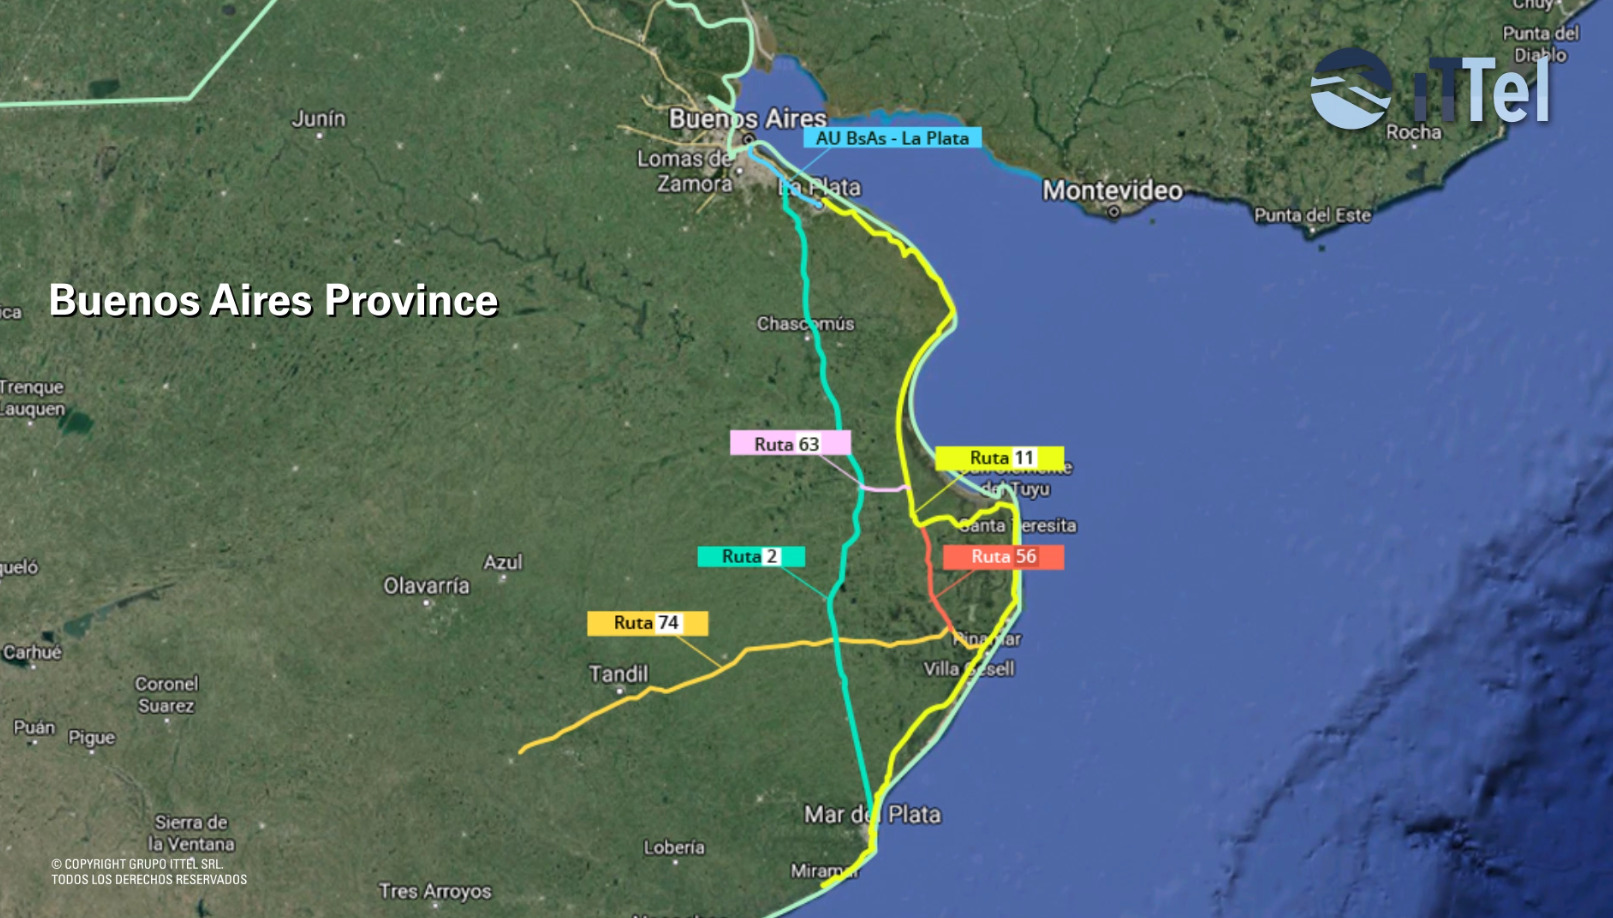
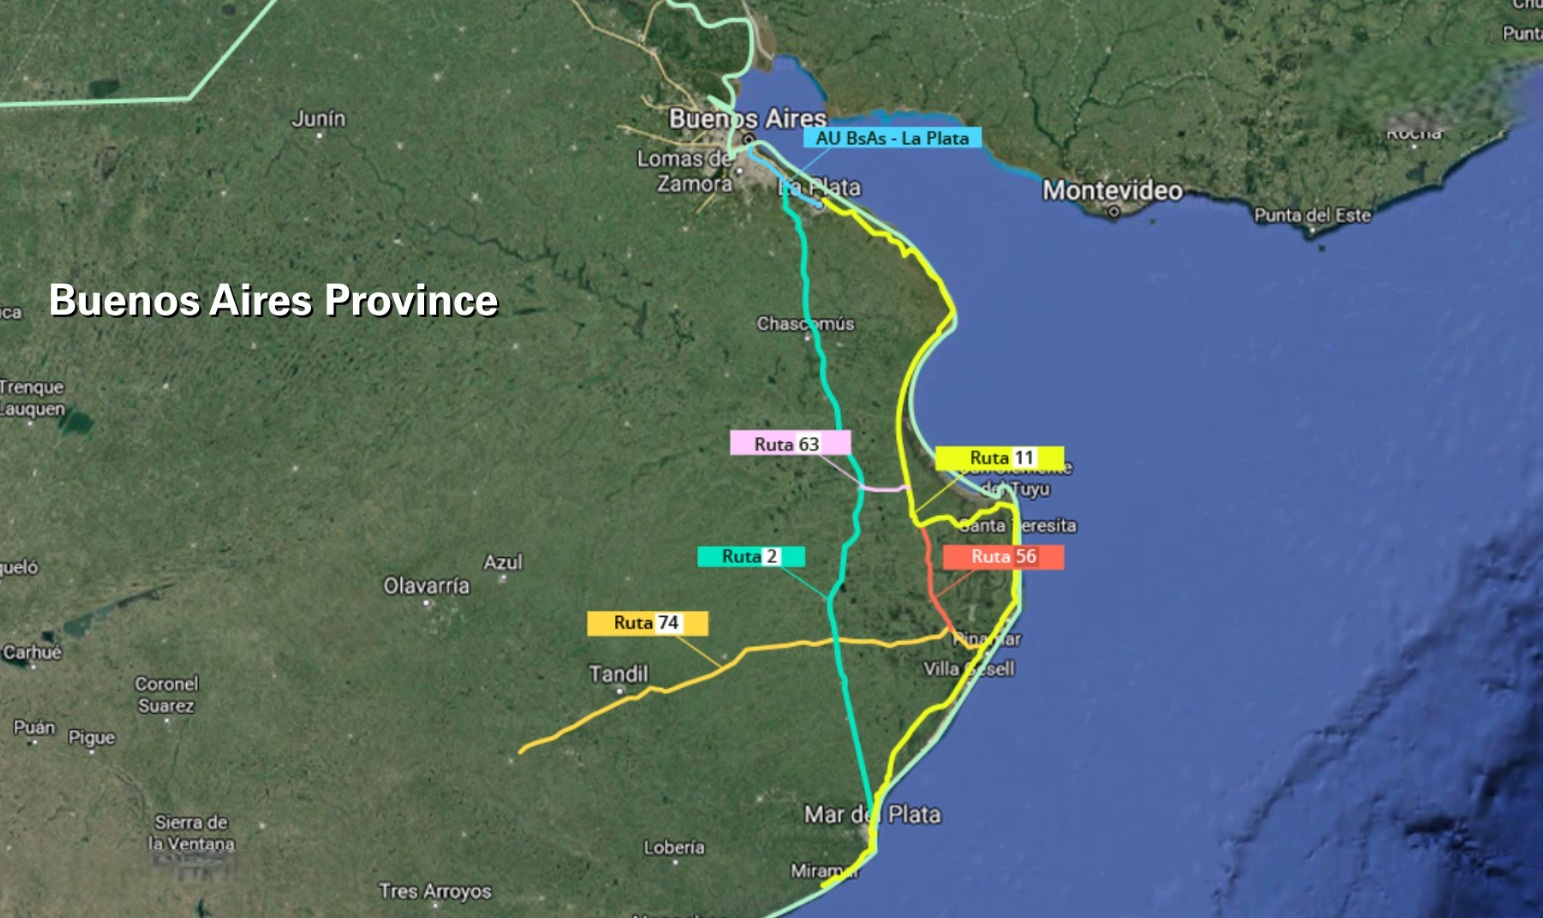
Update images and add mobile-specific background change
Replaced AUBASA1.jpg and AUSA4.jpg images. Updated main.js to change the background image for USITTEL project slices on mobile devices by setting a specific image source when the screen width is 768px or less.

diff --git a/js/main.js b/js/main.js
@@ -1747,6 +1747,17 @@ function initProjectsInteractive() {
     const enableMobileExpand = () => {
         if (window.innerWidth > 768) return; // sólo mobile
         
+        // Cambiar imagen de fondo de USITTEL solo en móvil
+        document.querySelectorAll('.project-slice').forEach(slice => {
+            const title = slice.dataset.title || '';
+            if (title.includes('USITTEL')) {
+                const bgImg = slice.querySelector('.slice-bg');
+                if (bgImg) {
+                    bgImg.src = 'assets/images/proyectos/USITTEL_horizontal.png';
+                }
+            }
+        });
+        
         document.querySelectorAll('.project-slice').forEach((slice, sliceIndex) => {
             const indicator = slice.querySelector('.slice-expand-indicator');
             if (!indicator) return;
